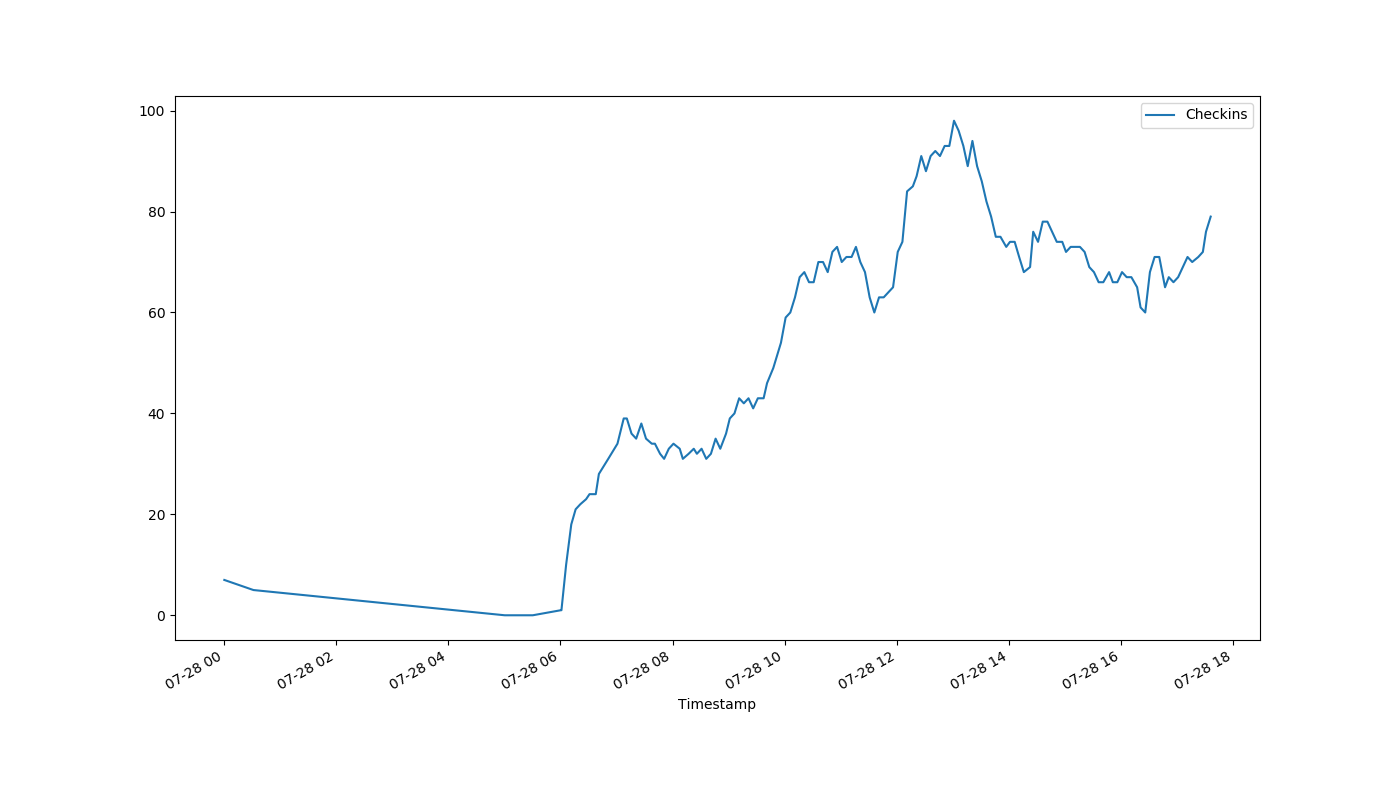
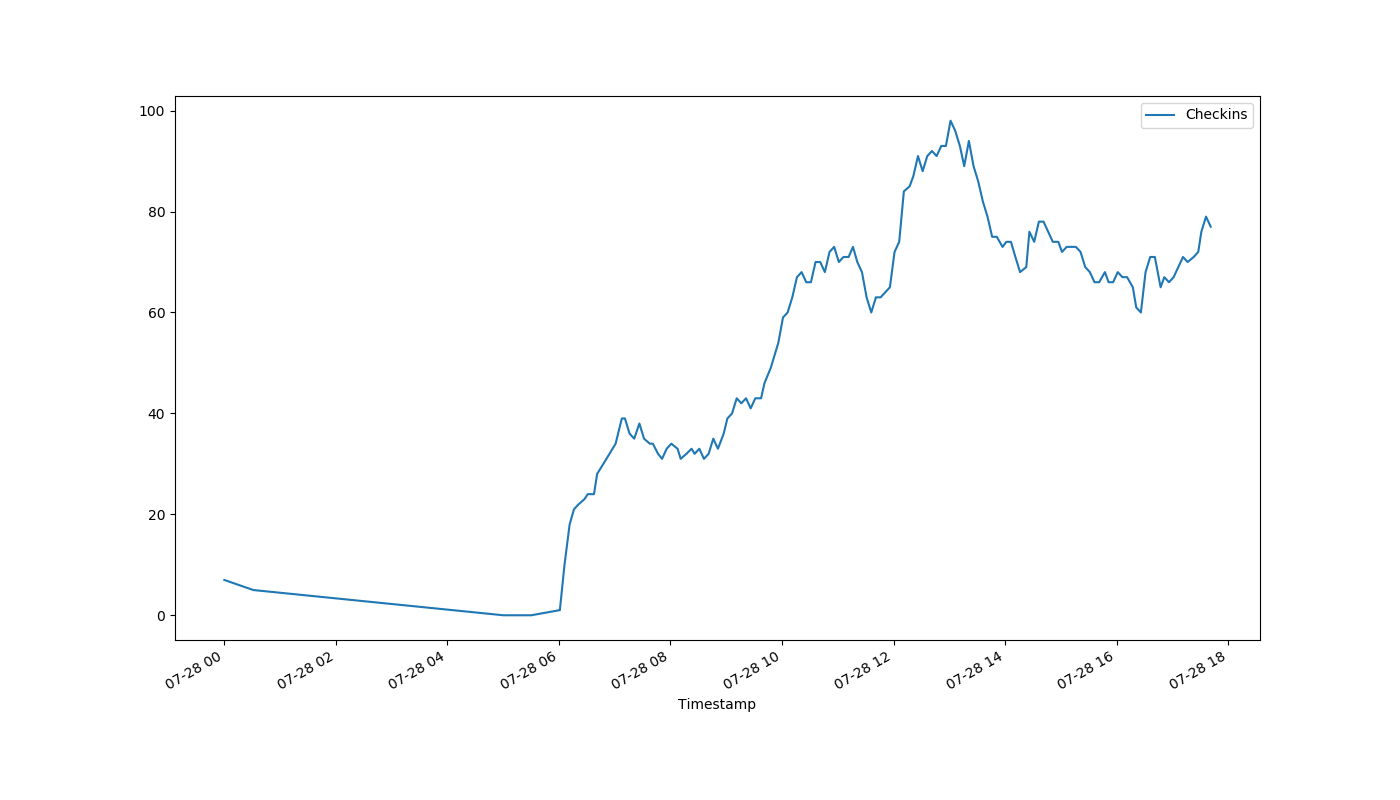
auto-Jul-28-17:42:10

diff --git a/index.html b/index.html
@@ -1,1 +1,1 @@
-<!DOCTYPE html><html><head><meta http-equiv="refresh" content="30"><link rel='stylesheet' href='holmcurrent.css'></head><body><p id='count'>79</p><div id='graph-wrap'><img id='graph' src='holmgraph-Jul-28.png'></div><p id='updated'>Last updated 17:36:14 / 17:36:04</p></body></html>
+<!DOCTYPE html><html><head><meta http-equiv="refresh" content="30"><link rel='stylesheet' href='holmcurrent.css'></head><body><p id='count'>77</p><div id='graph-wrap'><img id='graph' src='holmgraph-Jul-28.png'></div><p id='updated'>Last updated 17:41:14 / 17:41:04</p></body></html>
